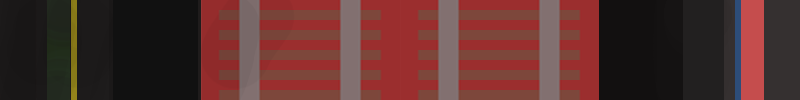
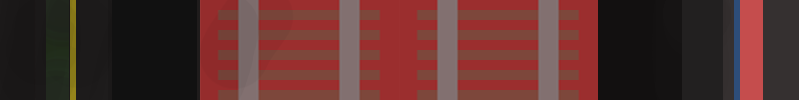
Metro Light Update

diff --git a/html/CutScenes/Metro.js b/html/CutScenes/Metro.js
@@ -1,22 +1,26 @@
-function MetroCutScene(metro, station, background)
+function MetroCutScene(metro, station, background, light)
 {
-        this.metro = metro;
-        this.station = station;
-        this.background = background;
-        this.counter = 0.0000001;
-        this.DIST = 50000;
+    this.metro = metro;
+    this.station = station;
+    this.background = background;
+    this.light = light;
+
+    this.counter = 0.0000001;
+    this.DIST = 50000;
+
 }
 
 MetroCutScene.prototype.render = function ()
 {
 
-    for(var i = 0; i < 7; i++) {
+    for(var i = 0; i < 7; i++) 
         ctx.drawImage(this.background, 0, (this.y%100)-100 + i * 100);
-    }
 
+    ctx.drawImage(this.light, 0, 0);
     ctx.drawImage(this.station, 0, this.y);
     ctx.drawImage(this.station, 0, this.y - this.DIST);
     ctx.drawImage(this.metro, (width/2), 100);
+
 
 }
 

diff --git a/html/onLoad.js b/html/onLoad.js
@@ -29,7 +29,7 @@ function afterLoadTiles()
 function afterLoadImages()
 {
     mouse = new mouseCoordinates(400, 300);
-    gameState = new CutSceneState(new MetroCutScene(images["metro"], images["station"], images["background"]));
+    gameState = new CutSceneState(new MetroCutScene(images["metro"], images["station"], images["background"], images["light"] ));
 
     onFrame();
 }

diff --git a/html/images.js b/html/images.js
@@ -1,6 +1,7 @@
 var imagesToLoad = [
     "metro",
     "background",
+    "light",
     "station",
     "stallman_right",
     "stallman_left",
